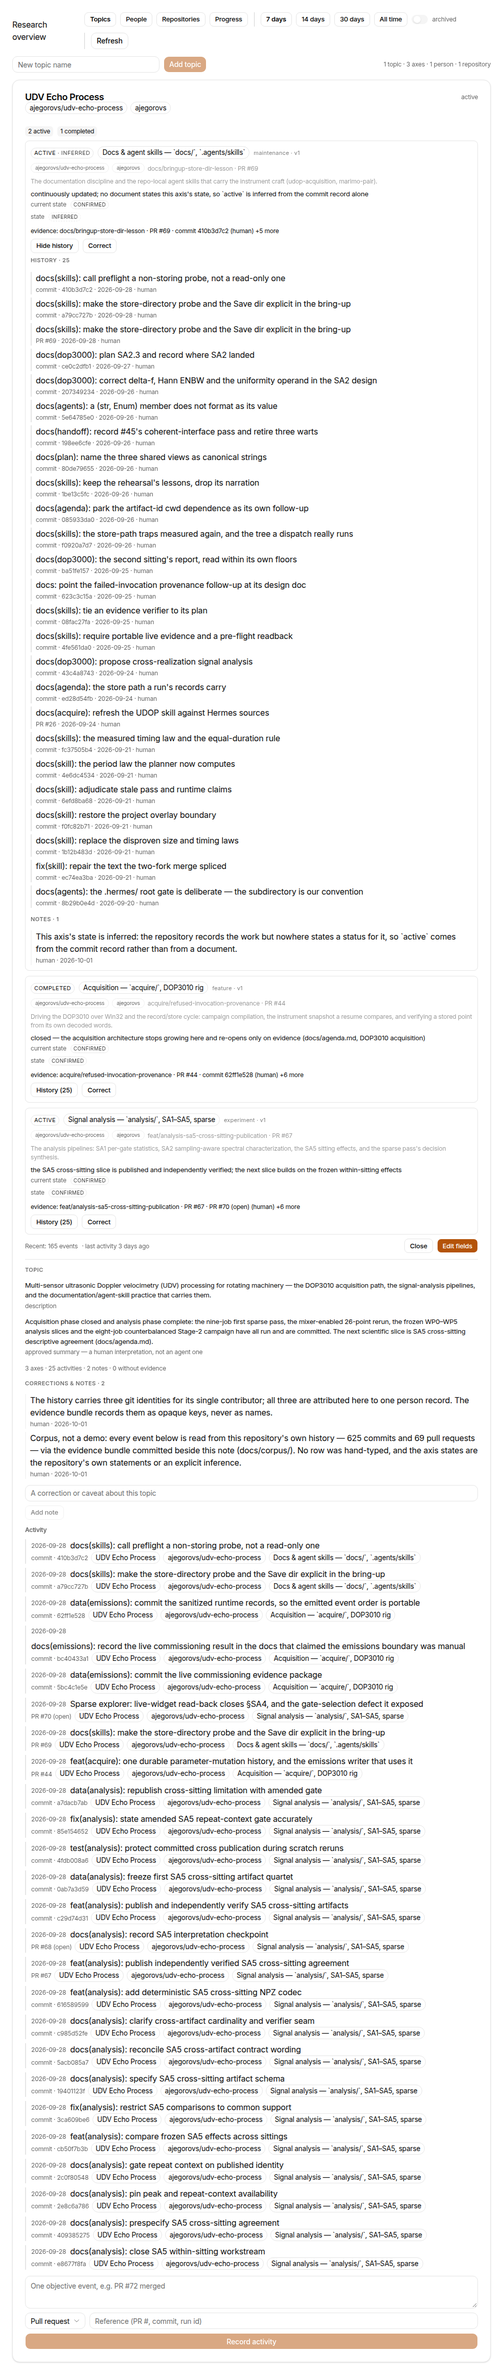
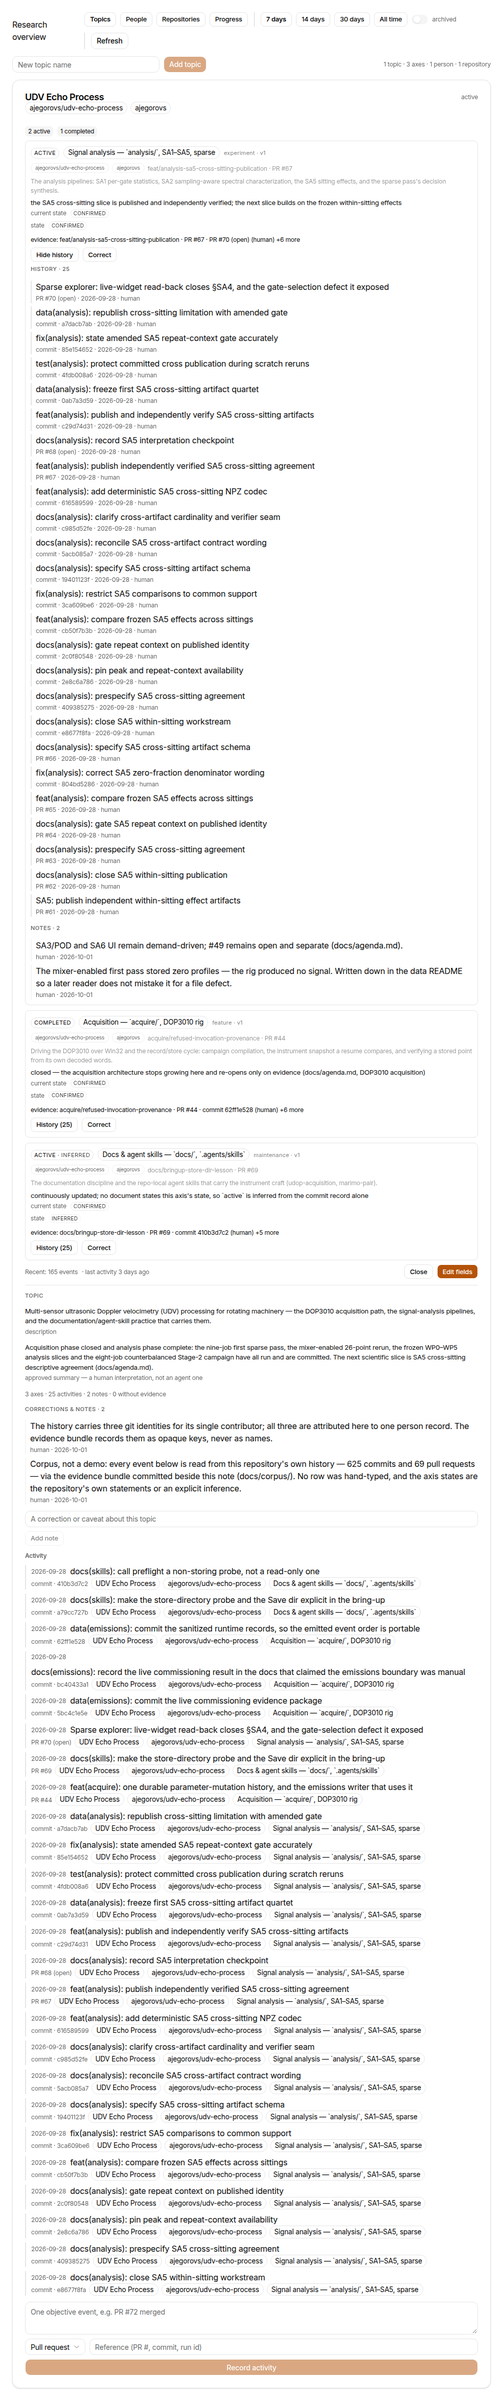
nakama: U10 — remove the resolved-problem fallback in Axes mode (reviewer ruling, option a)
Ruling: in Axes mode the central Problem card is the selected axis's first OPEN Problem in projection
order; with zero open Problems there is no card, the axis still stands, and the Activity column still
follows it. No fallback to a resolved Problem — resolved Problems stay reachable through the Problems
subview, which is the view for the full inventory. Seeds unchanged; no truthful skip reduced.

src/ui.tsx (Axes mode): shownProblem is now `axesModeProblems.filter((row) => row.state === "open")[0]
?? null`. The empty state's text is accurate to its cause: "No open problems on this axis." when the axis
has problems but none open, and only "Nothing is recorded against this axis." when it has none at all.

Why this needed real data: the synthetic fixture has never carried an axis whose problems are all
resolved (its axis has three, two open), so the fallback looked harmless through all of U4 and became
reachable only when the corpus acquired a resolved problem and no open one on the same axis — PR #48,
closed without merging, on the acquisition axis.

Verification: typecheck clean; bun run check 126 pass · 0 fail · 764 expect() (no test asserted the old
fallback or the empty text). Build -> vendor -> reinstall on both instances (UI change, no re-seed needed);
release 0.2.0+dev.5a98360ab6cc, revision 12 corpus / 57 fixture. Source ui/app.js 7f97ce64c530ab80128f
identical in the repo build and the vendored checkout; the two instances serve byte-identical assets per
[…]

Changed region(s): [[0.0305, 0.0, 0.9451, 0.9675], [0.7927, 0.4369, 0.8232, 0.4681], [0.7317, 0.4369, 0.7622, 0.4681]]

diff --git a/ui/app.js b/ui/app.js
@@ -1427,7 +1427,7 @@ function apply(ctx) {
     const chosenProblem = selectedProblemId ? problemRows.find((row) => row.id === selectedProblemId) ?? null : null;
     const axesModeAxis = selectedAxisRow ?? axisRows[0] ?? null;
     const axesModeProblems = problemRows.filter((row) => row.axisId === axesModeAxis?.id);
-    const shownProblem = problemsMode ? chosenProblem ?? problemRows[0] ?? null : chosenProblem && chosenProblem.axisId === axesModeAxis?.id ? chosenProblem : axesModeProblems.filter((row) => row.state === "open")[0] ?? axesModeProblems[0] ?? null;
+    const shownProblem = problemsMode ? chosenProblem ?? problemRows[0] ?? null : chosenProblem && chosenProblem.axisId === axesModeAxis?.id ? chosenProblem : axesModeProblems.filter((row) => row.state === "open")[0] ?? null;
     const parentAxisOfShownProblem = shownProblem === null ? null : axisRows.find((row) => row.id === shownProblem.axisId) ?? null;
     const activeAxis = problemsMode ? parentAxisOfShownProblem ?? axesModeAxis : axesModeAxis;
     const axisProblems = problemRows.filter((row) => row.axisId === activeAxis?.id);
@@ -1604,7 +1604,7 @@ function apply(ctx) {
     }, "No axis is selected.") : shownProblem === null ? /* @__PURE__ */ React.createElement("p", {
       className: "rd-muted",
       "data-rd-progress-problem-empty": "true"
-    }, problemsMode ? "No problem is recorded yet." : "Nothing is recorded against this axis.") : /* @__PURE__ */ React.createElement("div", {
+    }, problemsMode ? "No problem is recorded yet." : axesModeProblems.length > 0 ? "No open problems on this axis." : "Nothing is recorded against this axis.") : /* @__PURE__ */ React.createElement("div", {
       className: "rd-problem-card",
       "data-rd-problem": shownProblem.id
     }, /* @__PURE__ */ React.createElement("div", {

diff --git a/src/ui.tsx b/src/ui.tsx
@@ -2660,9 +2660,12 @@ export function apply(ctx: Context) {
       ? (chosenProblem ?? problemRows[0] ?? null)
       : chosenProblem && chosenProblem.axisId === axesModeAxis?.id
         ? chosenProblem
-        : (axesModeProblems.filter((row) => row.state === "open")[0] ??
-          axesModeProblems[0] ??
-          null);
+        : // Axes mode emphasizes CURRENT work: the card is the axis's first open Problem in projection
+          // order, or the one explicitly selected. A resolved Problem is never shown here — with none open
+          // there is no card, and the axis still stands (the Activity column still follows it). Resolved
+          // Problems stay inspectable in the Problems subview, which is the view that shows the full
+          // inventory. The fallback to `axesModeProblems[0]` contradicted the heading's own count.
+          (axesModeProblems.filter((row) => row.state === "open")[0] ?? null);
     // In `Axes` the columns follow the selected axis. In `Problems` the axis follows the problem on screen,
     // so the card, the plan, the sections and the Activity feed all describe that problem's own parent
     // context — read off the projection's relations, never re-derived in the markup. With no problem on
@@ -2996,7 +2999,9 @@ export function apply(ctx: Context) {
             <p className="rd-muted" data-rd-progress-problem-empty="true">
               {problemsMode
                 ? "No problem is recorded yet."
-                : "Nothing is recorded against this axis."}
+                : axesModeProblems.length > 0
+                  ? "No open problems on this axis."
+                  : "Nothing is recorded against this axis."}
             </p>
           ) : (
             <div className="rd-problem-card" data-rd-problem={shownProblem.id}>

diff --git a/docs/ux-v2/STATUS.md b/docs/ux-v2/STATUS.md
@@ -21,7 +21,7 @@ what remains is refinement, hardening and merge readiness (U10/U11), not proving
 | **U7** Shared grammar / navigation | **pulled forward into U4 and completed** — `EntityTag` as the one navigation primitive, `DetailHeader`/`RecencyLabel`/`EventDate`+`ActivityLine`/`Notice` shared by every view, and the tag traversal exercised from Progress, People, Repositories and Topics | `U4-progress.md` §18, §19 |
 | **U8** People + Repositories refinement | **core views delivered in U4** (both on the shared grammar, with the topic/axis/repository tags each names); **remaining:** refinement and edge-state polish against §People/§Repositories | as above |
 | **U9** Visual grammar + density | **mostly delivered in U4** — the primitives this chunk names are extracted and shared (one `EntityTag`, one `StateBadge`, `RecencyLabel` vs `EventDate`, `DetailHeader`, `ActivityLine`, `Notice`); **remaining:** the density/emphasis pass the brief's steps 4 and 7 describe, and any component still local to one view | `contract/component-contract.md`, `U4-progress.md` §19 |
-| **U10** Fixtures A–J + harness coverage | **in progress — §1 (the two seeds) is in**, and the class it exposed is fixed: three checks chose their subject *by position* and went red on a legitimately bare first repository, so each now chooses by property from the projection (and one had crashed mid-run). Records: fixture **107 · 0 · 0** — *zero skips* — and corpus **73 · 0 · 33**, both viewports, on the same served bytes U4 closed on (`aa3a478c39ca045d7e96`), which is the evidence that this pass changed no page logic. See `U10-harness.md` §1. **§4 is in as well — corpus coverage under the provenance rule.** Two rung-1 derivations in `harness/replay-corpus.mjs`, no authored rows: every event takes its repository from its own `sourceUrl` (694 of 694 — the field existed, the replay never passed it), and the corpus's three **unmerged pull requests** (#70, #68 open; #48 closed-unmerged, `stateConfidence: inferred`) become its problems, with their own events re-recorded through `reconcile_topic`'s `activities[]` so each stays one row and names its problem. Corpus **73 · 0 · 33 → 74 · 0 · 32 → 83 · 1 · 22**; fixture unchanged at **107 · 0 · 0**; all 22 remaining skips classified **rung 3** (13 causes, each left with its reason — no blocked axis, no second repository, no plan, no bare problem invented). The one failure is a **finding**: an axis with a resolved problem and none open renders a problem card under `Open problems (0)` — `src/ui.tsx` Axes mode falls back `…filter(open)[0] ?? axesModeProblems[0]`, a latch from the accepted step-6 inversion that no dataset could reach; left unfixed, ruling options in `docs/reviews/2026-10-02-u10-corpus-coverage.md`. Also fixed: `set -e` in `read-pass.sh` aborted before the scratch copy on exit 1, so a **red run left the previous green transcript in place**. **§3 is also in: the dataset identity guard and the ABORTED/REFUSED record.** The pass derives the instance's dataset from durable markers (fixture topics `Layout fixture …` / repositories under `fixture/`, and the corpus's *absence* of them), and REFUSES — exit 3, no verdict — when the instance is not the dataset the run asked for, including the mixed case; measured in both confusing directions (`--dataset fixture`→corpus instance, `--dataset corpus`→fixture instance), each refused with the identity line stating what it saw. An abort now prints `ABORTED … this transcript is PARTIAL …` and exits 2, and the wrapper records only a **verdict** (exit 0 or 1): exits 2/3 leave the committed transcript untouched and the run in `${TMPDIR}` — closing the class where a mid-run crash looked like a short successful record. Tested by injecting a fault (inline exit 2, wrapper exit 2, committed record still ends in its legitimate summary, `grep -c ABORTED` = 0). See `U10-harness.md` §3. Remaining — the seed/harness work, not UI work. Two checks are wired and *skip* today because no dataset has their subject, so the first items are minimal, explicit additions that make them execute: (1) one activity carrying a real `repositoryId`, so the Activity column's repository tag renders and its check runs; (2) a case that actually renders an exceptional-state `Notice` (an axis with no open problem, or a collapsed card hiding axes), so the notice path is exercised rather than skipped. Then the remaining A–J states and the new v2 checks | the two skips are recorded with reasons in the frozen U4 records: corpus `72 · 0 · 33`, fixture `105 · 0 · 1` |
+| **U10** Fixtures A–J + harness coverage | **in progress — §1 (the two seeds) is in**, and the class it exposed is fixed: three checks chose their subject *by position* and went red on a legitimately bare first repository, so each now chooses by property from the projection (and one had crashed mid-run). Records: fixture **107 · 0 · 0** — *zero skips* — and corpus **73 · 0 · 33**, both viewports, on the same served bytes U4 closed on (`aa3a478c39ca045d7e96`), which is the evidence that this pass changed no page logic. See `U10-harness.md` §1. **§4 is in as well — corpus coverage under the provenance rule.** Two rung-1 derivations in `harness/replay-corpus.mjs`, no authored rows: every event takes its repository from its own `sourceUrl` (694 of 694 — the field existed, the replay never passed it), and the corpus's three **unmerged pull requests** (#70, #68 open; #48 closed-unmerged, `stateConfidence: inferred`) become its problems, with their own events re-recorded through `reconcile_topic`'s `activities[]` so each stays one row and names its problem. Corpus **73 · 0 · 33 → 74 · 0 · 32 → 83 · 1 · 22**; fixture unchanged at **107 · 0 · 0**; all 22 remaining skips classified **rung 3** (13 causes, each left with its reason — no blocked axis, no second repository, no plan, no bare problem invented). The one failure was a **finding**: an axis with a resolved problem and none open rendered a problem card under `Open problems (0)` — `src/ui.tsx` Axes mode fell back `…filter(open)[0] ?? axesModeProblems[0]`, a latch from the accepted step-6 inversion that no dataset could reach. **Ruled (option a) and fixed the same day:** no card when an axis has zero open problems, the empty state now reads "No open problems on this axis.", resolved problems stay reachable in the Problems subview; corpus re-measured **84 · 0 · 22**, fixture unchanged **107 · 0 · 0** (both viewports). Release `0.2.0+dev.5a98360ab6cc` on both instances. Also fixed: `set -e` in `read-pass.sh` aborted before the scratch copy on exit 1, so a **red run left the previous green transcript in place**. **§3 is also in: the dataset identity guard and the ABORTED/REFUSED record.** The pass derives the instance's dataset from durable markers (fixture topics `Layout fixture …` / repositories under `fixture/`, and the corpus's *absence* of them), and REFUSES — exit 3, no verdict — when the instance is not the dataset the run asked for, including the mixed case; measured in both confusing directions (`--dataset fixture`→corpus instance, `--dataset corpus`→fixture instance), each refused with the identity line stating what it saw. An abort now prints `ABORTED … this transcript is PARTIAL …` and exits 2, and the wrapper records only a **verdict** (exit 0 or 1): exits 2/3 leave the committed transcript untouched and the run in `${TMPDIR}` — closing the class where a mid-run crash looked like a short successful record. Tested by injecting a fault (inline exit 2, wrapper exit 2, committed record still ends in its legitimate summary, `grep -c ABORTED` = 0). See `U10-harness.md` §3. Remaining — the seed/harness work, not UI work. Two checks are wired and *skip* today because no dataset has their subject, so the first items are minimal, explicit additions that make them execute: (1) one activity carrying a real `repositoryId`, so the Activity column's repository tag renders and its check runs; (2) a case that actually renders an exceptional-state `Notice` (an axis with no open problem, or a collapsed card hiding axes), so the notice path is exercised rather than skipped. Then the remaining A–J states and the new v2 checks | the two skips are recorded with reasons in the frozen U4 records: corpus `72 · 0 · 33`, fixture `105 · 0 · 1` |
 | **U11** Screenshots, docs, handoff, merge readiness | not started | — |
 
 ## U1 in one screen

diff --git a/docs/reviews/2026-10-02-u10-resolved-fallback-fix.md b/docs/reviews/2026-10-02-u10-resolved-fallback-fix.md
@@ -1,0 +1,57 @@
+# U10 — the resolved-problem fallback in Axes mode: removed, and re-measured
+
+**Date:** 2026-10-02 · **Ruling:** option (a) · **Release after:** `0.2.0+dev.5a98360ab6cc`
+
+## The ruling
+
+> "I'd rule for (a): remove `?? axesModeProblems[0]` in Axes mode. In Axes mode, the central Problem card is
+> the selected axis's first **open** Problem in projection order. If there are zero open Problems, then there is
+> **no Problem card to show** for that axis. The axis itself still remains meaningful and the Activity column
+> still follows it… do **not** fall back to a resolved Problem in Axes mode; resolved Problems remain available
+> in the **Problems** subview. Do not alter the corpus seeds or reduce the remaining truthful skips."
+
+## The change
+
+`src/ui.tsx`, Axes mode — `shownProblem`:
+
+```diff
+-  : (axesModeProblems.filter((row) => row.state === "open")[0] ??
+-      axesModeProblems[0] ??
+-      null);
++  : (axesModeProblems.filter((row) => row.state === "open")[0] ?? null);
+```
+
+and the empty state's text is now accurate to its cause: an axis with resolved problems and none open reads
+**"No open problems on this axis."**; only an axis with no problems at all reads "Nothing is recorded against
+this axis." (before, the second message covered both cases and was wrong for the first). In `Problems` mode the
+card is unchanged — that subview still shows the full inventory, resolved problems included.
+
+## Verification
+
+- `bun run typecheck` clean; `bun run check` → **126 pass · 0 fail · 764 expect()** (no test asserted the old
+  fallback, and none asserts the empty text).
+- Build → vendor → reinstall on **both** instances (a corpus re-seed was **not** needed: this is a UI change, the
+  stores were untouched). Release `0.2.0+dev.5a98360ab6cc`, revision 12 (corpus) / 57 (fixture).
+- Byte identity: source `ui/app.js` `7f97ce64c530ab80128f` in the repo build **and** the vendored checkout; the
+  two instances serve byte-identical assets on each route (Nakama `ca730ec7fc2b7edb7277`, dashboard
+  `c80ada07b81f13e6164a` — the routes serve through the server's own wrapper, which is why they differ from the
+  source file; what matters is corpus == fixture on both).
+
+| dataset | before the fix | after |
+|---|---|---|
+| corpus (both viewports) | 83 · **1** · 22 | **84 · 0 · 22** |
+| fixture (both viewports) | 107 · 0 · 0 | 107 · 0 · 0 (unchanged) |
+
+The check that caught it now reads: *"selecting another axis moves the Problem and Activity columns to that
+axis — selected 3e5b5f94: problem axis 3e5b5f94, feed axis 3e5b5f94, shown (projection none open), 43 feed rows
+vs 43"* — no card, the axis still standing, the Activity column still following it. The subview half of the
+ruling is evidenced in the same record: *"the Problems index lists the projection's problems, in the server's
+order, with each row's own state, axis, topic and recency — 3 row(s) of 3; order matches; fields match"* (all
+three, one of them resolved).
+
+## Why this could only be found with real data
+
+The synthetic fixture has never carried an axis whose problems are all resolved — its axis carries three, two
+open. The fallback therefore looked harmless for the whole of U4, and became reachable only when the corpus
+acquired a resolved problem and no open one on the same axis (PR #48, closed without merging, on the acquisition
+axis). That is the argument for corpus-derived seeds in one line.

diff --git a/docs/ux-v2/U10-harness.md b/docs/ux-v2/U10-harness.md
@@ -155,7 +155,30 @@ now name theirs.`
 
 Measured: **74 · 0 · 32 → 83 · 1 · 22** — ten more skips execute, and **one fails**.
 
-### The failure this pass surfaced (a finding, handed to the reviewer)
+### The failure this pass surfaced — ruled, fixed, and re-measured
+
+**Ruling (reviewer, 2026-10-02): remove the fallback (option a).** *"In Axes mode, the central Problem card is
+the selected axis's first open Problem in projection order. If there are zero open Problems, then there is no
+Problem card to show for that axis. The axis itself still remains meaningful and the Activity column still
+follows it."* Showing a resolved Problem under `Open problems (0)` is internally contradictory and weakens the
+deliberate distinction between **Axes** (current/open work) and **Problems** (the full inventory, resolved
+included). The seeds were not changed and no truthful skip was reduced.
+
+**Fix** (`src/ui.tsx`, Axes mode): the card is now `axesModeProblems.filter((row) => row.state === "open")[0]
+?? null` — no `axesModeProblems[0]` fallback. The empty state's text is now accurate to its cause: an axis with
+resolved problems and none open reads **"No open problems on this axis."**, and only an axis with no problems at
+all reads "Nothing is recorded against this axis." Resolved problems remain in the **Problems** subview, and the
+corpus record proves it: *"the Problems index lists the projection's problems, in the server's order, with each
+row's own state, axis, topic and recency — 3 row(s) of 3; order matches; fields match"*.
+
+**Re-measured after the fix** (both viewports, separate instances): corpus **84 · 0 · 22** — the failing check
+now passes as *"selected 3e5b5f94: problem axis 3e5b5f94, feed axis 3e5b5f94, shown (projection none open), 43
+feed rows vs 43"*, i.e. no card, the axis still standing and the Activity column still following it. Fixture
+**107 · 0 · 0**, unchanged by the fix. Release `0.2.0+dev.5a98360ab6cc` installed on both instances; source
+`ui/app.js` `7f97ce64c530ab80128f` identical in the repo and the vendored checkout, and the two instances serve
+byte-identical assets (Nakama route `ca730ec7fc2b7edb7277`, dashboard route `c80ada07b81f13e6164a`).
+
+### The failure, as it was found (kept for the record)
 
 `selecting another axis moves the Problem and Activity columns to that axis` fails because the page and the
 projection disagree about an axis that has a **resolved** problem and no open one (the acquisition axis, from
@@ -190,8 +213,8 @@ extraordinary-state subject). The table is the decision, not an omission:
 | 1 | every person maps to a platform account | 3 | left — the material has no unmapped person |
 | 1 | no exceptional-state subject (no bare repository, no card hiding axes) | 3 | left — neither subject exists in the material |
 
-**Counts after the pass** (both viewports, separate instances): fixture **107 · 0 · 0** (unchanged — its data
-and the page are untouched), corpus **83 · 1 · 22** (with the finding above).
+**Counts after the ruling and the fix** (both viewports, separate instances): fixture **107 · 0 · 0**
+(unchanged — the ruling did not touch it), corpus **84 · 0 · 22** (the finding above, closed).
 
 ### One harness regression found while recording this pass
 

diff --git a/README.md b/README.md
@@ -287,7 +287,7 @@ internally (activities, annotations and plan-step links cannot name a problem cr
 and row ids are server-generated); the applier reads the ids back and does the referencing pass second.
 
 Expected as of U4's step 7, on **separate instances** — a corpus-only one and an isolated fixture-only one:
-corpus **83 pass · 1 fail · 22 skip** — one recorded finding, see `docs/ux-v2/U10-harness.md` §4 — and fixture **107 · 0 · 0**, at both viewports (the fixture now records *zero* skips: U10's two seeds gave the repository-tag and exceptional-state checks their subjects). **A pass that cannot be trusted is not recorded:** it refuses (exit 3, `read pass: REFUSED — no verdict, no record`) when the instance is not the dataset `--dataset` asked for — identity comes from the fixture's own naming (`Layout fixture …` topics, `fixture/` repositories) and the corpus's *absence* of it, so a **mixed** instance is refused too — and an abort prints `ABORTED … this transcript is PARTIAL` and exits 2; on either code the committed transcript is left untouched and the partial run is kept in `${TMPDIR}`. Step 7's first half added ten checks, its second half nine more (the shared grammar: one badge, one recency label, one detail header, one activity line and one notice across all four views, with the tags each view now emits asserted against its own projection)
+corpus **84 pass · 0 fail · 22 skip** and fixture **107 · 0 · 0**, at both viewports (the fixture now records *zero* skips: U10's two seeds gave the repository-tag and exceptional-state checks their subjects). **A pass that cannot be trusted is not recorded:** it refuses (exit 3, `read pass: REFUSED — no verdict, no record`) when the instance is not the dataset `--dataset` asked for — identity comes from the fixture's own naming (`Layout fixture …` topics, `fixture/` repositories) and the corpus's *absence* of it, so a **mixed** instance is refused too — and an abort prints `ABORTED … this transcript is PARTIAL` and exits 2; on either code the committed transcript is left untouched and the partial run is kept in `${TMPDIR}`. Step 7's first half added ten checks, its second half nine more (the shared grammar: one badge, one recency label, one detail header, one activity line and one notice across all four views, with the tags each view now emits asserted against its own projection)
 (the EntityTag contract exercised from Progress: the reading surface's topic and axis tags carry the
 projection's own ids and labels, every tag in the Activity column names an entity its own event carries, an
 attributed event's person is a tag, and the topic, person, repository, problem and axis tags each land in their

diff --git a/docs/corpus/README.md b/docs/corpus/README.md
@@ -70,7 +70,18 @@ row while also naming its problem. Nothing is hand-typed: the two derived calls 
 and the created problems' ids are read back from the projection and matched on the PR's own subject line
 rather than assumed.
 
-### The one failing check — a finding, not a seeded defect
+### The one failing check that this pass surfaced — ruled and fixed
+
+Ruled by the reviewer (2026-10-02) as option (a): **remove the fallback**. *"In Axes mode, the central Problem
+card is the selected axis's first open Problem in projection order… If there are zero open Problems, then there
+is no Problem card to show for that axis. The axis itself still remains meaningful and the Activity column still
+follows it."* `src/ui.tsx` Axes mode no longer falls back to `axesModeProblems[0]`, and the empty state now
+reads **"No open problems on this axis."** when the axis has problems but none open (it said "Nothing is
+recorded against this axis." for both cases before). Resolved problems remain available in the **Problems**
+subview — this record shows all three listed with their own states. Re-measured after the fix: corpus
+**84 · 0 · 22**, fixture **107 · 0 · 0**.
+
+The finding, as it was recorded before the ruling:
 
 `selecting another axis moves the Problem and Activity columns to that axis` fails on this dataset
 because the page and the projection disagree about an axis that has a **resolved** problem and no open
@@ -151,7 +162,7 @@ would mix fixture data into a real-corpus pack.
 They are produced by the page harness (in the services tree, `services/nakama/scripts/verify-read.sh`,
 which wraps `verify-page.mjs`), and the pass that produced them is kept here verbatim as
 [`verify-read.txt`](verify-read.txt) — with `verify-read-1280x800.txt` for the narrow viewport:
-**83 checks passed, 1 failed, 22 skipped** at both viewports, re-measured at U10's corpus-coverage pass
+**84 checks passed, 0 failed, 22 skipped** at both viewports, re-measured at U10's corpus-coverage pass
 (2026-10-02) on a **corpus-only instance** (its own empty data root, this corpus seeded into it by the
 committed 695-call replay); the step-7 record was **64 · 0 · 32**, step-6 **56 · 0 · 30**, step-5
 **52 · 0 · 26**. The single failure is a finding rather than a seeded defect — *The one failing check*

diff --git a/docs/layout-fixtures/README.md b/docs/layout-fixtures/README.md
@@ -41,12 +41,13 @@ activity carries `repositoryFullName`, so the tag renders, its navigation check 
 names is linked to no topic and no axis (the Repositories view then renders the `empty` notices). This
 directory now records **zero skips** at both viewports, with nothing failing. See `docs/ux-v2/U10-harness.md`.
 **Measured against each other at U10, on separate instances:** this directory **107 · 0 · 0** and the
-corpus **83 · 1 · 22** — the corpus record is taken on a corpus-only instance, and its 22 skips are the checks
+corpus **84 · 0 · 22** — the corpus record is taken on a corpus-only instance, and its 22 skips are the checks
 this corpus cannot honestly exercise (13 causes, all classified rung 3 in `docs/ux-v2/U10-harness.md` §4:
-one repository, no plan, no blocked axis, no bare problem), each printed with its reason. The corpus's single
-failure is a **finding about the page**, not about the data — an axis with a resolved problem and none open
-renders a problem card under `Open problems (0)`; see `docs/reviews/2026-10-02-u10-corpus-coverage.md`. So
-the pair that once read 36/43 reads **107/83** (at U4's step 7 it read 96/64; step 6, 87/56; step 5, 80/52). The pass also *swapped* one check for
+one repository, no plan, no blocked axis, no bare problem), each printed with its reason. The corpus's single failure was a **finding about the page**, not
+about the data — an axis with a resolved problem and none open rendered a problem card under
+`Open problems (0)`. The reviewer ruled it out (remove the fallback), it is fixed, and resolved problems stay
+reachable in the Problems subview; the fix left this directory's record unchanged. So the pair that once read
+36/43 reads **107/84** (at U4's step 7 it read 96/64; step 6, 87/56; step 5, 80/52). The pass also *swapped* one check for
 another at step 5 — the closed-out precondition folded into the conditional that replaced it, and a new
 precondition that `get_progress` carries all three halves the page reads — which is why the fixture total
 stayed **80** rather than moving to 81.

diff --git a/docs/reviews/2026-10-02-u10-corpus-coverage.md b/docs/reviews/2026-10-02-u10-corpus-coverage.md
@@ -1,5 +1,10 @@
 # U10 corpus coverage — the provenance rule, two derived seeds, and one finding
 
+> **Ruled on (reviewer, 2026-10-02): option (a)** — remove `?? axesModeProblems[0]` in Axes mode; no central
+> Problem card when an axis has zero open problems; resolved Problems stay reachable in the Problems subview;
+> **do not** alter the corpus seeds or reduce the remaining truthful skips. Fixed and re-measured: corpus
+> **84 · 0 · 22**, fixture **107 · 0 · 0** (both viewports), release `0.2.0+dev.5a98360ab6cc`.
+
 **Date:** 2026-10-02 · **Chunk:** U10 (fixtures and harness robustness) · **Runner:** harness/read-pass.sh
 
 ## What was asked
